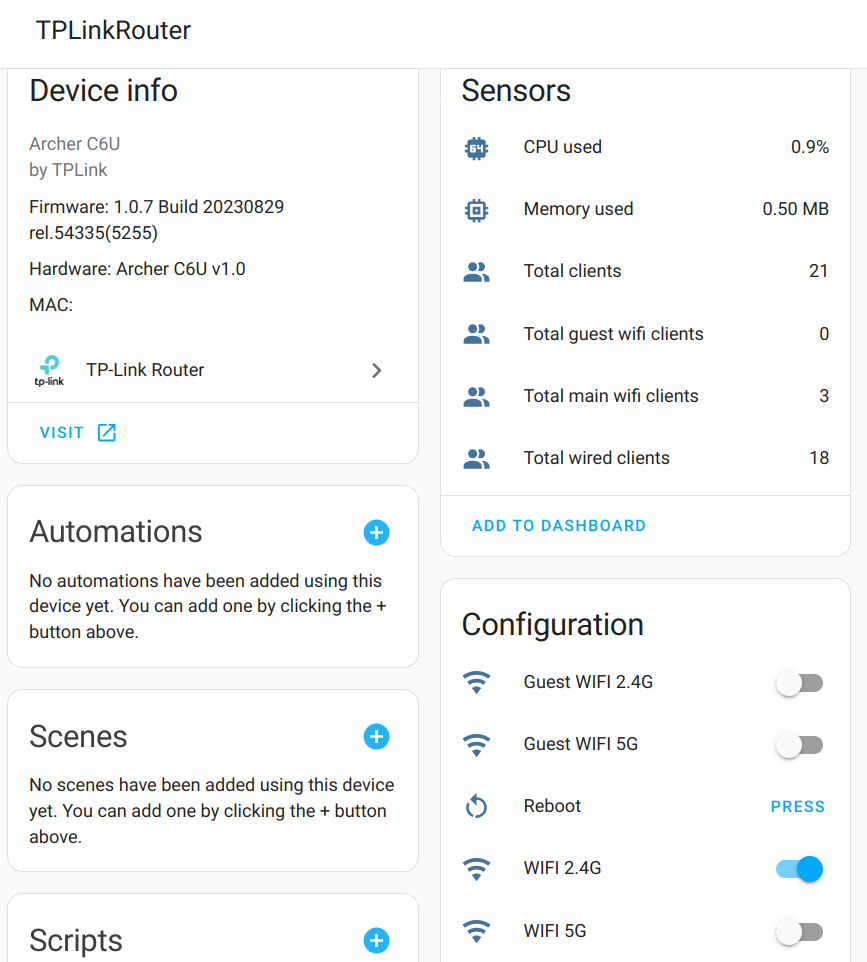
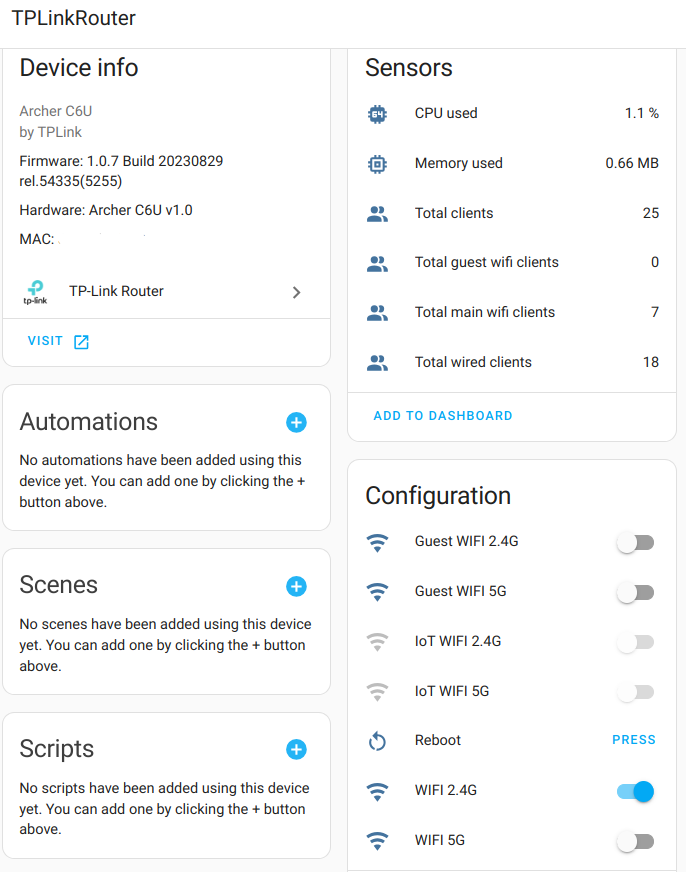
Added IoT Network switches

diff --git a/custom_components/tplink_router/switch.py b/custom_components/tplink_router/switch.py
@@ -58,6 +58,22 @@ SWITCH_TYPES = (
         property='wifi_5g_enable',
         method=lambda coordinator, value: coordinator.set_wifi(Wifi.WIFI_5G, value),
     ),
+    TPLinkRouterSwitchEntityDescription(
+        key="iot_24g",
+        name="IoT WIFI 2.4G",
+        icon="mdi:wifi",
+        entity_category=EntityCategory.CONFIG,
+        property='iot_2g_enable',
+        method=lambda coordinator, value: coordinator.set_wifi(Wifi.WIFI_IOT_2G, value),
+    ),
+    TPLinkRouterSwitchEntityDescription(
+        key="iot_5g",
+        name="IoT WIFI 5G",
+        icon="mdi:wifi",
+        entity_category=EntityCategory.CONFIG,
+        property='iot_5g_enable',
+        method=lambda coordinator, value: coordinator.set_wifi(Wifi.WIFI_IOT_5G, value),
+    ),
 )
 
 
@@ -96,6 +112,11 @@ class TPLinkRouterSwitchEntity(
     def is_on(self) -> bool:
         """Return true if switch is on."""
         return getattr(self.coordinator.status, self.entity_description.property)
+
+    @property
+    def available(self) -> bool:
+        """Return True if entity is available."""
+        return getattr(self.coordinator.status, self.entity_description.property) is not None
 
     async def async_turn_on(self, **kwargs: Any) -> None:
         """Turn the entity on."""

diff --git a/README.md b/README.md
@@ -12,6 +12,8 @@ See [Supported routers](#supports)
  - 5Ghz main wifi Enable/Disable
  - 2.4Ghz guest wifi Enable/Disable
  - 5Ghz guest wifi Enable/Disable
+ - 2.4Ghz IoT wifi network Enable/Disable
+ - 5Ghz IoT wifi network Enable/Disable
 
 ### Sensors
  - Total amount of wired clients
